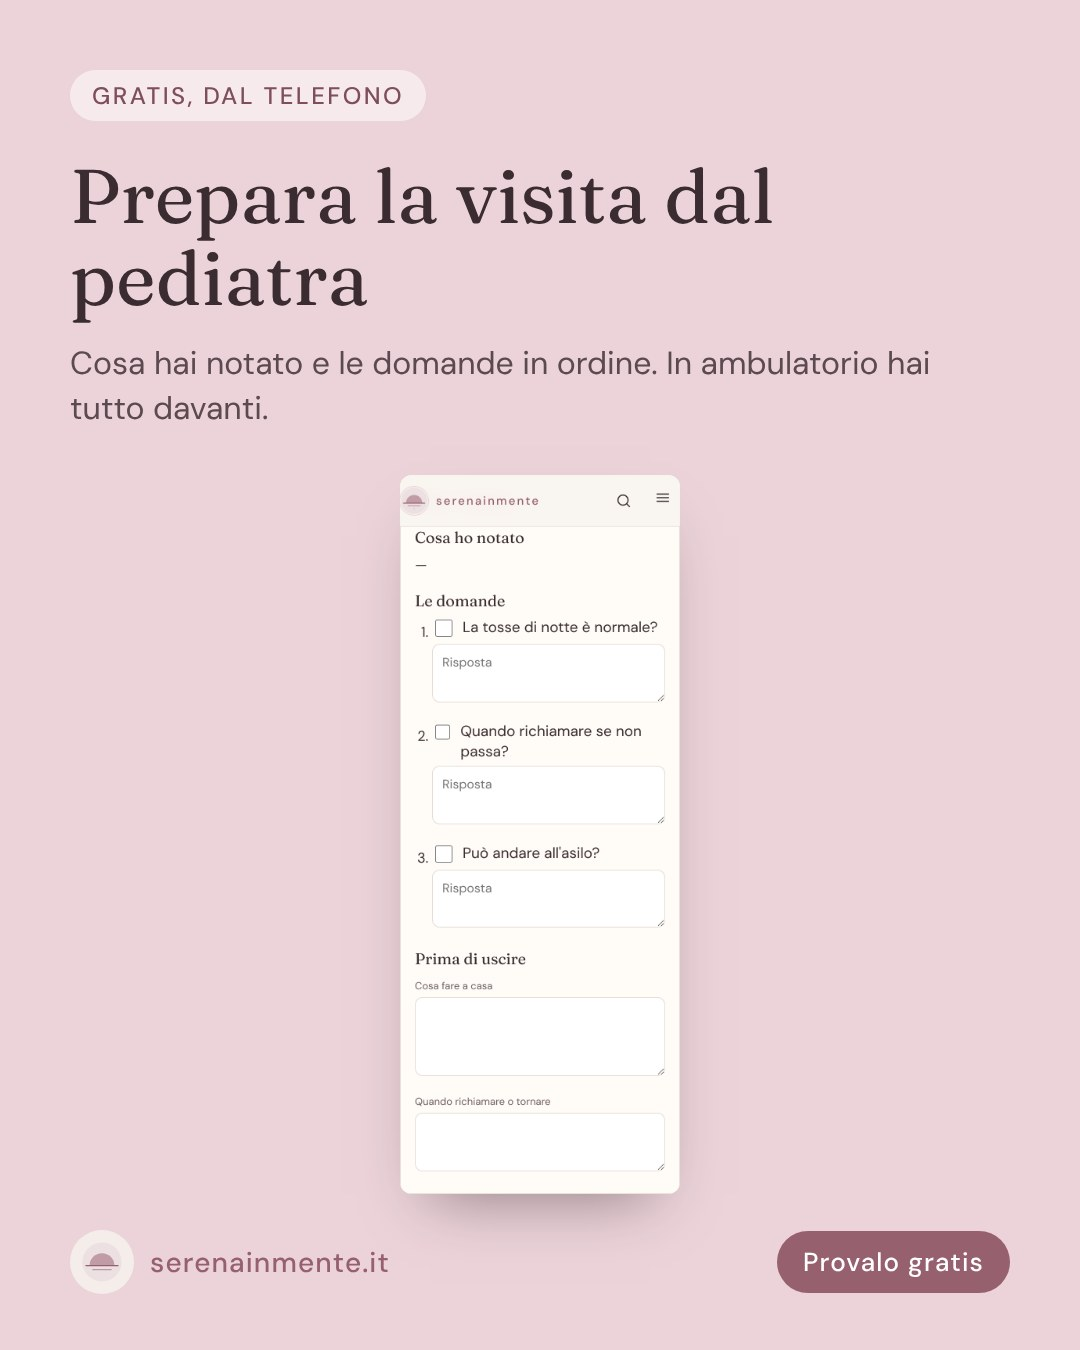
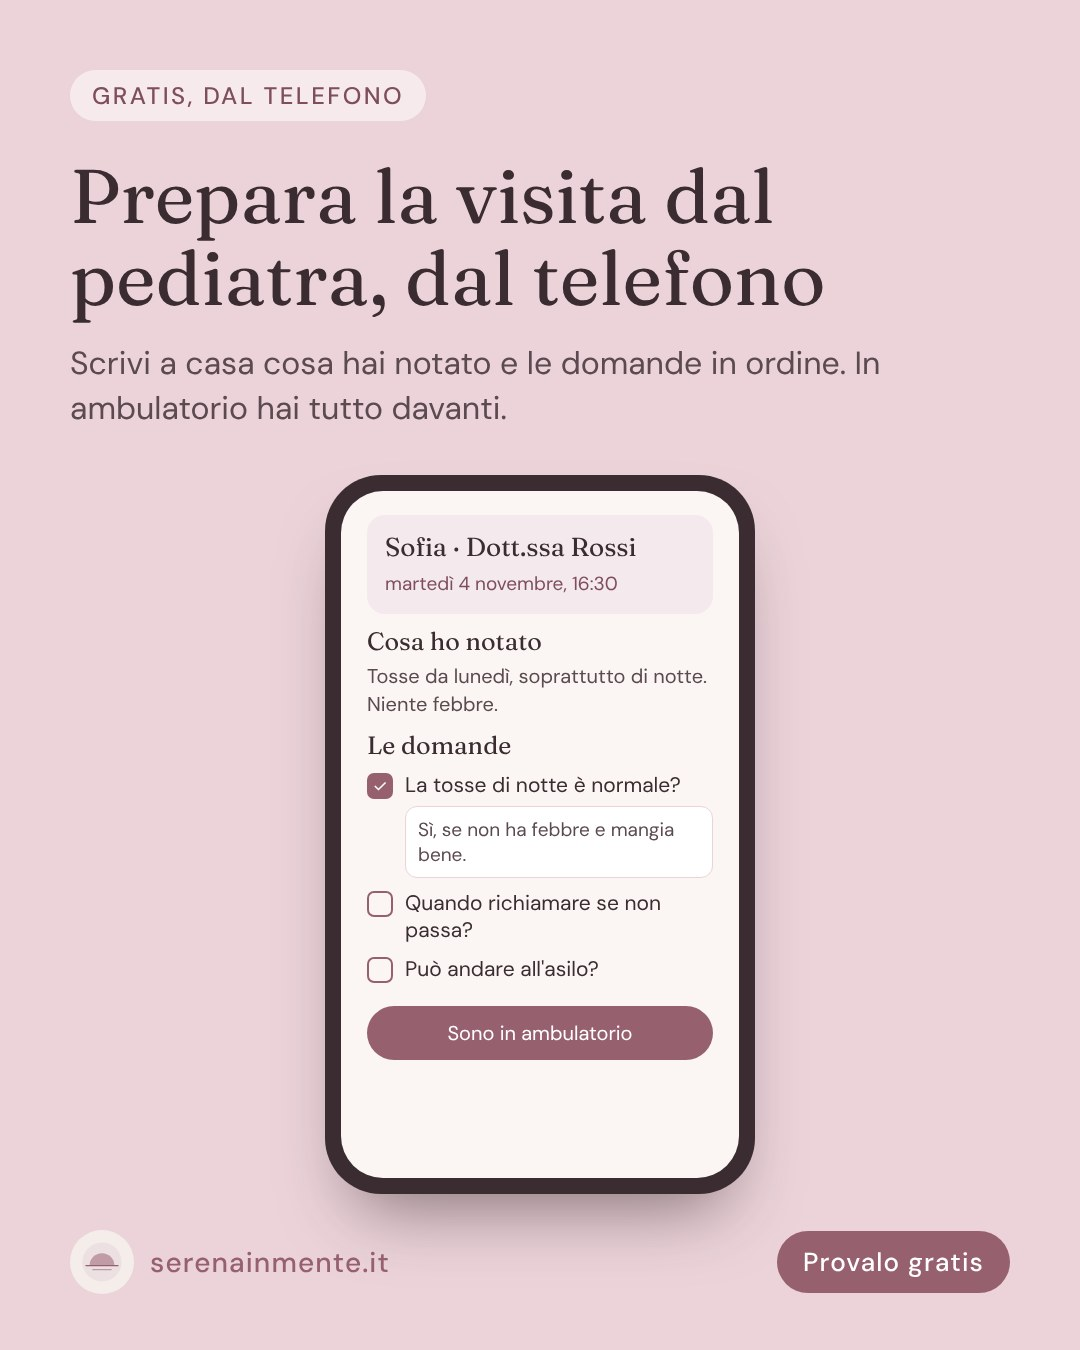
Pin, post e storia di Preparo la visita con telefono disegnato e dati di esempio
Claude-Session: https://claude.ai/code/session_01Qbg2FzuvJ6hwRQKmQRPTuk

Changed region(s): [[0.275, 0.3422, 0.7028, 0.9333], [0.0611, 0.1867, 0.8556, 0.3111]]

diff --git a/gen/grafiche/pin.js b/gen/grafiche/pin.js
@@ -19,12 +19,32 @@ p{font:400 32px/1.4 'DM Sans';margin-top:22px;color:#5B4A4F}
 .im img{max-width:100%;max-height:100%;border-radius:12px;box-shadow:0 30px 60px -30px rgba(58,44,48,.55);background:#fff}
 .b{display:flex;align-items:center;justify-content:space-between;font:500 28px 'DM Sans';color:#97606F;letter-spacing:.04em}
 .b span{display:flex;align-items:center;gap:16px}.g{background:#97606F;color:#fff;padding:14px 26px;border-radius:999px;font-size:26px}`;
+
+const PHONE = `<div class="ph"><div class="scr">
+<div class="top"><span class="dot"></span><b>Preparo la visita</b></div>
+<div class="hd">Sofia · Dott.ssa Rossi<br><small>martedì 4 novembre, 16:30</small></div>
+<div class="sec">Cosa ho notato</div><div class="txt">Tosse da lunedì, soprattutto di notte. Niente febbre.</div>
+<div class="sec">Le domande</div>
+<div class="q ok"><i>✓</i><span>La tosse di notte è normale?</span></div><div class="ans">Sì, se non ha febbre e mangia bene.</div>
+<div class="q"><i></i><span>Quando richiamare se non passa?</span></div>
+<div class="q"><i></i><span>Può andare all'asilo?</span></div>
+<div class="btns"><span class="b1">Sono in ambulatorio</span><span class="b2">Manda il riepilogo</span></div>
+</div></div>`;
+const PHONE_CSS = `.ph{width:430px;height:100%;max-height:820px;background:#3A2C30;border-radius:56px;padding:16px;box-shadow:0 40px 70px -30px rgba(58,44,48,.6)}
+.scr{background:#FBF6F4;border-radius:42px;height:100%;overflow:hidden;padding:34px 30px;font-family:'DM Sans';text-align:left}
+.top{display:flex;align-items:center;gap:12px;font-size:22px;color:#97606F;margin-bottom:22px}.dot{width:26px;height:26px;border-radius:50%;background:#EBD3D9;border:5px solid #F4E9EC}
+.hd{background:#F4E9EC;border-radius:18px;padding:16px 18px;font:400 26px/1.3 Fraunces;color:#3A2C30;margin-bottom:8px}.hd small{font:400 19px 'DM Sans';color:#7F4E5C}
+.sec{font:400 25px Fraunces;color:#3A2C30;margin:20px 0 8px}.txt{font-size:20px;line-height:1.4;color:#5B4A4F}
+.q{display:flex;gap:12px;align-items:flex-start;font-size:21px;line-height:1.3;color:#3A2C30;margin:12px 0 6px}.q i{flex:none;width:26px;height:26px;border:2.5px solid #97606F;border-radius:7px;font-style:normal;color:#fff;display:grid;place-items:center;font-size:17px;margin-top:1px}.q.ok i{background:#97606F}
+.ans{margin:0 0 6px 38px;background:#fff;border:1.5px solid #EBD3D9;border-radius:12px;padding:10px 12px;font-size:19px;color:#5B4A4F}
+.compact .b2,.compact .top{display:none}.compact .scr{padding:24px 26px}.compact .sec{margin:12px 0 6px}.btns{display:flex;flex-direction:column;gap:10px;margin-top:22px}.btns span{border-radius:999px;padding:14px;text-align:center;font-size:20px}.b1{background:#97606F;color:#fff}.b2{border:2px solid #97606F;color:#97606F}`;
+
 const PINS = [
   ['lista-delle-medicine', '#F4E9EC', 'Da stampare, gratis', 'La lista delle medicine da stampare', 'Per chi segue un genitore o un nonno: si scrive insieme, a quattro mani.', 'assets/stampabili/lista-delle-medicine.webp'],
   ['settimana-sul-frigo', '#F2EBE3', 'Da stampare, gratis', 'Il planner settimanale della famiglia', 'Da attaccare al frigo: chi va dove, visite, chi accompagna.', 'assets/stampabili/settimana-sul-frigo.webp'],
   ['domande-per-il-pediatra', '#E8EDE4', 'Da stampare, gratis', 'Le domande da fare al pediatra', 'Un foglio da compilare a casa: in ambulatorio non dimentichi niente.', 'assets/stampabili/domande-per-il-pediatra.webp'],
   ['gestionale', '#FBF6F4', 'File gratuito', 'Il gestionale di famiglia', 'Visite, scadenze e documenti in un file solo. Excel o Fogli Google, anche dal telefono.', 'assets/gestionale/inizia.webp'],
-  ['preparo-la-visita', '#EBD3D9', 'Gratis, dal telefono', 'Prepara la visita dal pediatra', 'Cosa hai notato e le domande in ordine. In ambulatorio hai tutto davanti.', process.env.PREPARO || ''],
+  ['preparo-la-visita', '#EBD3D9', 'Gratis, dal telefono', 'Prepara la visita dal pediatra, dal telefono', 'Scrivi a casa cosa hai notato e le domande in ordine. In ambulatorio hai tutto davanti.', 'PHONE'],
 ];
 (async () => {
   const b = await chromium.launch({ executablePath: EXE });
@@ -32,9 +52,10 @@ const PINS = [
   for (const [pre, W, H, PT, PB] of FORMATI) {
   const p = await b.newPage({ viewport: { width: W, height: H } });
   for (const [k, bg, chip, t, d, img] of PINS) {
-    if (!img || !fs.existsSync(path.isAbsolute(img) ? img : path.join(ROOT, img))) { console.log('salto', k); continue; }
-    const src = i64(path.isAbsolute(img) ? img : path.join(ROOT, img));
-    await p.setContent(`<!doctype html><meta charset="utf-8"><style>${css}</style><div class="c" style="--bg:${bg};--w:${W}px;--h:${H}px;--pt:${PT}px;--pb:${PB}px"><span class="chip">${chip}</span><h1>${esc(t)}</h1><p>${esc(d)}</p><div class="im"><img src="${src}"></div><div class="b"><span>${LOGO}serenainmente.it</span><span class="g">${k === 'preparo-la-visita' ? 'Provalo gratis' : 'Scaricalo gratis'}</span></div></div>`);
+    const isPhone = img === 'PHONE';
+    if (!isPhone && (!img || !fs.existsSync(path.join(ROOT, img)))) { console.log('salto', k); continue; }
+    const src = isPhone ? '' : i64(path.join(ROOT, img));
+    await p.setContent(`<!doctype html><meta charset="utf-8"><style>${css}${PHONE_CSS}</style><div class="c" style="--bg:${bg};--w:${W}px;--h:${H}px;--pt:${PT}px;--pb:${PB}px"><span class="chip">${chip}</span><h1>${esc(t)}</h1><p>${esc(d)}</p><div class="im">${isPhone ? (H < 1400 ? PHONE.replace('class="ph"','class="ph compact"') : PHONE) : `<img src="${src}">`}</div><div class="b"><span>${LOGO}serenainmente.it</span><span class="g">${k === 'preparo-la-visita' ? 'Provalo gratis' : 'Scaricalo gratis'}</span></div></div>`);
     await p.evaluate(() => document.fonts.ready);
     await p.screenshot({ path: path.join(ROOT, 'assets', 'pin', `${pre}${k}.jpg`), type: 'jpeg', quality: 88 }); console.log('ok', pre + k);
   }
